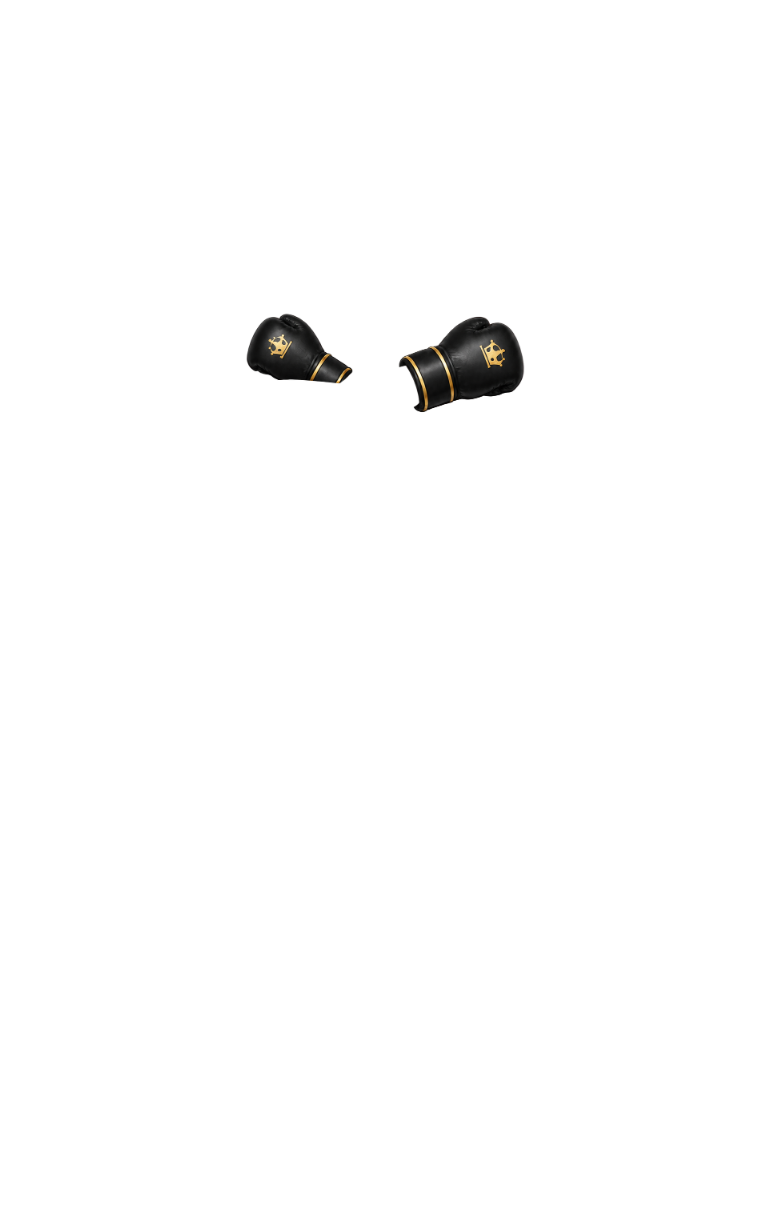
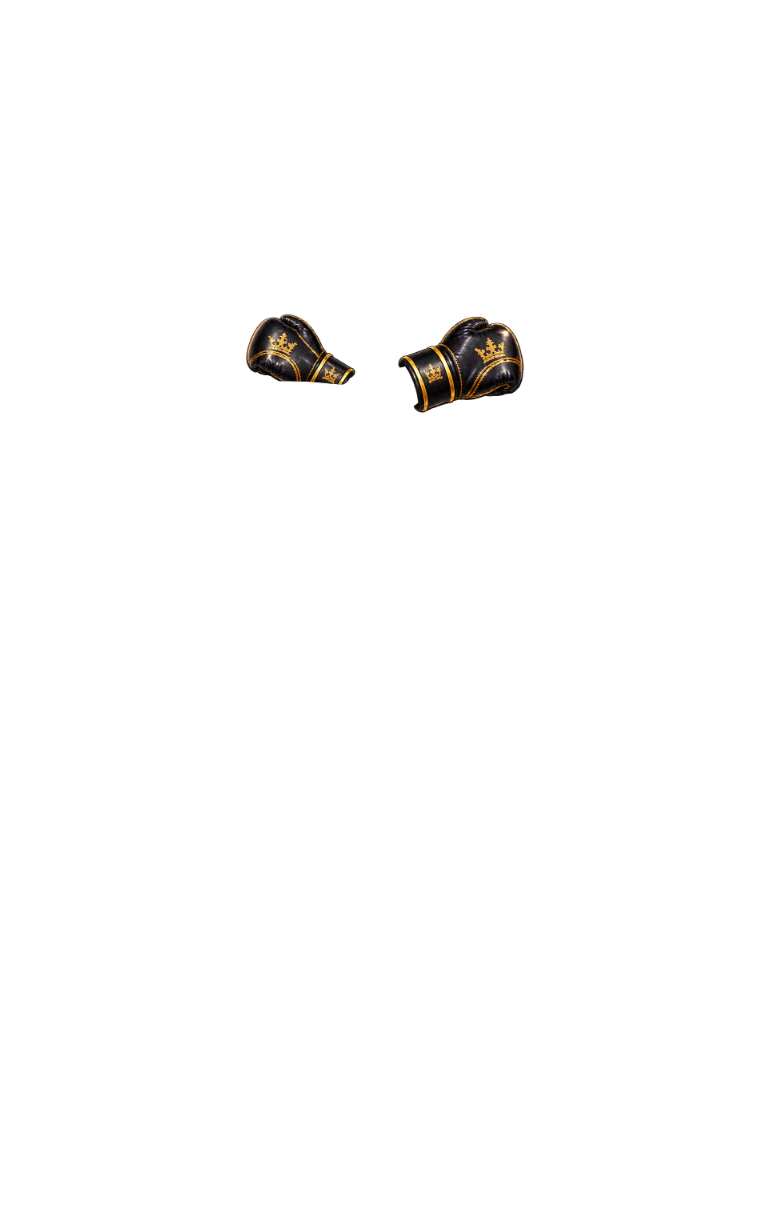
Prepare boxer release candidate with ornate glove restoration and complete first paint

Changed region(s): [[0.5312, 0.25, 0.6875, 0.3438], [0.3125, 0.25, 0.4688, 0.3125]]

diff --git a/takeover-mein-boxer-artpack.js b/takeover-mein-boxer-artpack.js
@@ -144,7 +144,9 @@ function build(manifest,draftPreview){
   const layers=choose(config,pose);
   if(!layers)return null;
   const html='<span class="mb-artpack" role="img" aria-label="'+(draftPreview?'Dein Boxer – nicht freigegebener Grafikentwurf':LABEL)+'" data-artpack-version="1"'+(draftPreview?' data-artpack-draft="modular-cool"':'')+' data-artpack-pose="'+pose+'">'+
-   layers.map(x=>'<img class="mb-artpack-img" data-art-slot="'+x.slot+'" src="'+x.src+'" alt="" draggable="false" decoding="async" loading="eager">').join('')+
+   // These URLs are already preloaded. Present their decoded layers together;
+   // async decoding can paint a bare body before hair/hands on the first frame.
+   layers.map(x=>'<img class="mb-artpack-img" data-art-slot="'+x.slot+'" src="'+x.src+'" alt="" draggable="false" decoding="sync" loading="eager">').join('')+
    '</span>';
   return html;
  }

diff --git a/docs/PR79_RELEASE_CANDIDATE.md b/docs/PR79_RELEASE_CANDIDATE.md
@@ -1,0 +1,71 @@
+# PR #79 — Final Polish / Release Candidate
+
+Stand: 31.10.2026. Basis: `68660d59611c8b29fc9a530eec5f86267fe476a2`; beim Start waren GitHub-Head und lokaler Branch identisch, keine fremden Zwischenänderungen. PR bleibt Draft. Kein Merge, Deployment, Force-Push oder Eingriff in produktive Daten.
+
+## Ausgeführte Änderungen
+
+1. Ausschließlich `hands-blackgold.png` und `hands-white.png` gezielt überarbeitet: glänzendes Leder, detaillierte Goldkronen auf Hand und Manschette sowie feinere Goldnähte nach dem zugänglichen früheren Handschuhdesign. Körper, Mantel, Tank und die acht Originalmasken bleiben unverändert. Keine neue Pose und kein Rendererumbau.
+2. Anatomische Registrierung beibehalten: gleicher proportionaler Faktor 0,4 und Versatz (173,117), unveränderte Körper-Handgelenkanker. Die hintere Handschuhunterkante bleibt für den vorderen Unterarm ausgespart. Quellenmaße, Quellenhashes und Dateiinventar aktualisiert.
+3. Bestehende Transaktionssuite um WebKit-Auswahl ergänzt und in beiden Browsern in der CI-Matrix verankert. Keine Shop-/Inventarlogik geändert.
+4. Nachgewiesenen Erstladefehler korrigiert: unabhängig asynchron dekodierte PNG-Ebenen konnten kurzfristig Haare/Handschuhe auslassen. Bereits vorgeladene Ebenen verwenden nun synchrones Decoding für die gemeinsame Darstellung. Neue Pixelregression vergleicht den ersten sichtbaren Bildsatz mit dem vollständig dekodierten Bildsatz in beiden Browsern.
+5. Neues Abnahmepaket mit echten Browserbildern, sechs Posen, vier repräsentativen Outfits, allen 32 Varianten als Übersicht, normalem SVG-Editor und Vorher-/Nachher-Vergleich erstellt und visuell gesichtet.
+
+![Handschuhstil vorher und RC](images/boxer-gloves-rc-before-after.png)
+
+## Referenzen und künstlerische Grenzen
+
+Die ursprüngliche Handschuhzeichnung ist in der Git-Historie und im früheren Vorher-/Nachher-Bogen zugänglich. Sie zeigt glänzendes schwarzes Leder, komplexere Kronen und zusätzliche Goldnähte. Ihre damalige falsche Platzierung wurde ausdrücklich **nicht** zurückübernommen. Die neue Materialwirkung nähert sich dieser Referenz an; eine pixelidentische Form- oder Designrekonstruktion wird nicht behauptet. Die erste weiße Farbvariante scheiterte an der unveränderten Konturprüfung und wurde verworfen. Die nachgebesserte Variante besteht dieselbe Prüfung ohne gelockerte Grenzwerte.
+
+Die separat dokumentierte 1536×1024-Gesamtvorlage fehlt weiterhin als Originaldatei. Die zugängliche Originalrekonstruktion trägt Bandagen; sie ist keine genaue Handschuhreferenz. Gesicht und Muskulatur des modularen Körpers weichen weiterhin von dieser Originalrekonstruktion ab. Ausrüstungskacheln bleiben SVG; fünf Posen und nicht unterstützte Cool-Konfigurationen bleiben vollständig SVG. Keine dieser Grenzen wurde als behoben oder persönlich freigegeben ausgegeben.
+
+Verwendet wurde der eingebaute Imagegen-Modus. Hauptprompt: „Restore original glossy black leather, fine ornate gold seam piping, detailed embroidered royal crowns on knuckles and cuffs. Keep exact glove placement, dimensions, orientations, silhouette and transparent boundary, including the occluded rear lower edge. Do not copy the incorrect inward placement. Change only material surface and gold detailing; no body, skin or background.“ Weiß: „Precise recolor only; black leather to ivory white, preserve gold embroidery, canvas coordinates, silhouettes, cuff openings and transparency.“ Rohdateien und vollständige Prompts liegen im lokalen Abnahmepaket; nur registrierte PNGs werden vom Editor verwendet.
+
+## Tests und Sichtprüfung
+
+- Chromium und WebKit: je **32/32 echte PNG-Outfits + 16 Handschuhansichten**. Handgelenke/Fingerabdeckung, freie Unterarme, Bildgrößen, Farbwechsel, atomare Darstellung, absichtlich fehlende Datei und fehlende Schreibaufrufe bestanden. Alpha-IoU **97,18 %**, unveränderte Mindestgrenze 96 %; Schwerpunkt-/Konturgrenzen bestanden.
+- Beide Engines: sechs Posen, unabhängige Profil-/Kartenpose, Save während weiterer Änderung, Verwerfen/Reset/Reload und verspätete Bildantwort bestanden. Andere Posen erhalten niemals Cool-PNGs.
+- Beide Engines: Einzel-/Bundlekauf, Doppelbestätigung, optionaler Leistungsfehler, fehlgeschlagene/leere/deaktivierte Inventarantwort und Speichern gekaufter Ausstattung bestanden. Ausschließlich isolierte lokale RPC-Mocks; keine echten Coins ausgegeben.
+- Beide Engines: Viewports **375×812, 390×844, 430×932, 768×1024, 1440×900**, Resize, Scroll und Tastatur; zusätzliche Studio-Breiten und Original-PNG-Ansichten bestanden. Vollständige Holo-Integration lokal Chromium bestanden.
+- Relevante Staging-Verträge, Grafikvalidatoren, Hashprüfungen, CSS-/JS-Prüfungen und isolierter Pages-Dateiumfang lokal bestanden. ZIP-Import benötigt das unter Windows fehlende `zip` und bleibt verbindlich im Linux-CI. Die CI des aktuellen Heads ist vor Abschluss maßgeblich; Links werden in der PR-Beschreibung und im ausgelieferten Bericht bestätigt.
[1 lines of base64/hex data omitted]
+- Visuell geprüft: Übersicht der 32 Outfits, vergrößerte Handschuhe mit/ohne Mantel/Tank, Mobil-/Desktopansichten, sechs Posen und normaler SVG-Editor. Keine neu sichtbaren offenen Handflächen, schwebenden Handschuhe, doppelten Arme oder abgeschnittenen Inhalte in diesen Ansichten. Kein persönliches künstlerisches Urteil vorweggenommen.
+
+Screenshots zeigen lokale Testkonten mit begrenztem Inventar. Interne Frisurnamen in einzelnen Testbildern stammen aus dem Mock-Katalog, nicht aus einer geänderten Produktionsbeschriftung. Die Galerie lädt ausschließlich beigefügte Dateien und funktioniert nach Entpacken offline.
+
+## Performance und gesamter Diff zu main
+
+Keine neue Runtime-Abhängigkeit oder zusätzliche Editor-Neurenderlogik; lediglich das Decoding der vorgeladenen Bildebenen wurde für die gemeinsame Darstellung angepasst. Maximal drei parallele Preloads, gemeinsame laufende Requests und URL-Statuscache bleiben unverändert. Async-Bildabschluss aktualisiert nur die Figur, nicht Fokus/Scrollposition der Ausrüstung. Vorhandene Performance-/Race-Tests bestehen; kein nachgewiesener Restfehler rechtfertigt einen Umbau. Dekodierte Browser-/GPU-Caches sind nicht direkt kontrolliert; keine physische Speicherprofilierung behauptet.
+
+Die zwölf PNGs umfassen jetzt **2.113.320 Bytes**. Leinwand bleibt 768×1216: reine RGBA-Abschätzung 3,56 MiB pro Bild bzw. 42,75 MiB für alle zwölf, ohne Browser-/GPU-Overhead. Normaler Editor: null Entwurfsbildrequests.
+
+Gesamter PR-Diff zu `main` geprüft: keine SQL-/Migrations-, RLS-, Benutzerrechte- oder Shopkatalogänderungen. Persistierte Ausstattungs-/Pose-Schlüssel bleiben erhalten. Bestehende RPC-IDs und Kaufwerte unverändert; bereits enthaltene Fehlerbehandlung im Editor bleibt bestehen. Keine zwischenzeitlichen main-Konflikte beim Ausgangsabgleich; vor späterem Merge erneut prüfen.
+
+Realer Pages-Dateizusammenbau isoliert ausgeführt: **66 Rootdateien, 14 Avatar-Dateien, 0 Premium-PNGs**. Tools, Tests, Docs, Quellreferenzen und die ausgeschlossenen Previewseiten werden nicht mitkopiert. Relevante relative Editorpfade werden durch die Browserprüfung des zusammengesetzten Builds aufgelöst. Die absichtlich fehlenden Draft-PNGs unter `?art=modular` ergeben eine vollständige SVG-Figur. Beide Manifeste bleiben `approved:false`, `enabled:false`. Kein Newsabruf, Pages-Upload oder Deployment als Teil dieses Auftrags.
+
+## Entscheidungsmatrix
+
+| | Release A: UI mit SVG | Release B: Premium-Art |
+| --- | --- | --- |
+| Technisch | Für manuelle Abnahme vorbereitet; aktuelle CI muss grün sein | Begrenzter Cool-Entwurf technisch geprüft; noch kein freigegebener Produktionspfad |
+| Design freigegeben | Persönliche UI-Abnahme offen | Persönliche Grafikabnahme ausdrücklich offen |
+| Produktiv freigegeben | Nein | Nein |
+| Vorteil | Vollständiger bestehender SVG-Ausstattungsumfang, keine Entwurfs-PNGs oder zusätzliche Texturlast | Hochwertigere gemalte Cool-Figur und 32 modular wechselbare Outfits |
+| Nachteil | Einfachere SVG-Optik gegenüber der Anime-Referenz | Begrenzte Varianten und sichtbarer Stilwechsel bei Fallback; weitere Art-Arbeit nötig |
+| Nächster Schritt | Physische Geräte-/Accessibility-Abnahme, ausdrückliche Merge-/Release-Freigabe | Handschuhstil/Gesicht/Anatomie abnehmen, dann separat Aktivierungs- und Auslieferungskonzept prüfen |
+
+**Empfehlung: Release A zuerst separat freigeben.** Beide Wege bleiben getrennt. Für B reicht es nicht, blind beide Draft-Flags einzuschalten: Der jetzige Publisher verwendet das freigegebene Standardmanifest; das modulare Manifest ist ein eigener Vorschaupfad. Ein späterer Premium-Meilenstein muss Standardauswahl, erlaubte Pose-/Outfitgrenzen, publizierte Dateien, Fallback und Rückschaltung zusammen testen. In diesem PR werden dafür keine Flags oder Daten geändert.
+
+## Noch NICHT durchgeführte manuelle Tests
+
+Auf einem explizit bereitgestellten Teststand des PR-Branches mit Testkonto durchführen, **nicht** durch einen eigenmächtigen Produktionsrelease ermöglichen. Käufe ausschließlich mit Testdaten/Mock-Backend.
+
+1. **iPhone/Safari, zusätzlich installierte Web-App falls genutzt:** Hoch-/Querformat wechseln; Browserleiste ein-/ausblenden; jede Ausrüstungskategorie bis unten scrollen. Figur und Save/Verwerfen müssen sichtbar bleiben; kein Scroll-Fangen, kein Überdecken durch Safe Area oder Tastatur. Unterbrechung/Hintergrundwechsel und Rückkehr prüfen.
+2. **Android/Chrome:** dieselben Schritte; schnelle zehnfache Outfit-/Posewechsel, langsame Verbindung und Offline/Online simulieren. Vollständige Figur oder vollständiger SVG-Fallback, keine halben Outfits; App reagiert weiter. Speicher-/Wärmeverhalten am realen Gerät beobachten.
+3. **Speichern/Reset:** beide Pose-Felder unterschiedlich wählen, andere Ausrüstung ändern, speichern und neu laden. Dann ungespeichert ändern/verwerfen. Bei verzögertem Speichern weiter ändern: neue Auswahl darf nicht verloren gehen. Profil-/Kartenpose müssen getrennt bleiben.
+4. **Testkäufe:** Einzelartikel/Bundle bestätigen, abbrechen, doppelt tippen; Fehlerantwort und Inventarnachladen prüfen. Nur eine Buchung, korrekter Bestand und Coins; gekaufter Artikel anschließend auswähl-/speicherbar.
+5. **VoiceOver oder NVDA:** nur per Tastatur bzw. Screenreader durch Kategorien, Optionen, Shopbestätigung und Save/Verwerfen navigieren. Beschriftungen, ausgewählte Zustände und Rückmeldung prüfen; Fokus darf nach Outfitwechsel nicht verschwinden oder gefangen bleiben. Bei 200 % Zoom wesentliche Aktionen erreichbar halten.
+6. **Persönliche Grafikabnahme:** Vorher-/Nachher-Board und reale Outfits mit beiden Farben, Mantel und Tank vergleichen. Krone, Goldnähte, Lederwirkung, Handgröße, hintere Verdeckung sowie Gesicht/Körper gesondert bestätigen oder konkret beanstanden.
+
+## Restprobleme und Abschlussgrenze
+
+Keine verbleibenden P0-/P1- oder nachgewiesenen relevanten P2-Fehler in den geprüften Abläufen. Offene Punkte sind persönliche Grafik-/UI-Abnahme, physische Geräte-/Assistenztests und spätere explizite Produktivfreigabe. Weitere technische Änderungen ohne neuen Befund werden beendet. Technisch bereit für manuelle Abnahme bedeutet weder Designfreigabe noch Produktivfreigabe.

diff --git a/docs/MEIN_BOXER_MODULAR_DRAFT.md b/docs/MEIN_BOXER_MODULAR_DRAFT.md
@@ -49,3 +49,9 @@ Körperbasis, Tanktop, Mantel und Originalmasken blieben unverändert. Die vorha
 - Lokale Negativkontrolle mit den beiden unveränderten alten PNGs aus `a318638`: Beide scheitern an den neuen Prüfungen für freie Unterarme und abgedeckte nackte Hände. Damit ist belegt, dass die Regression den ursprünglichen Fehler erkennt.
 
 **Ergebnis:** technisch korrekt registriert und nach der durchgeführten Sichtprüfung für diese Cool-Kombinationen ausreichend korrigiert. Keine schwebenden Fäuste, freiliegenden zusätzlichen Finger oder auf den Bauch verschobenen Manschetten mehr in den geprüften Ansichten. Geringe zeichnerische Konturunterschiede zwischen den Farben bleiben; die persönliche künstlerische Freigabe des Auftraggebers und alle Aktivierungsflags bleiben offen beziehungsweise ausgeschaltet.
+
+## Release-Candidate-Politur — 31. Oktober 2026
+
+Der Handschuhstil wurde nach der zugänglichen früheren Zeichnung gezielt angenähert: glänzendes Leder, aufwendigere Kronen und zusätzliche Goldnähte. Anatomische Anker und gemeinsamer Transform bleiben unverändert. Neue Alpha-IoU 97,18 % bei unveränderten Grenzwerten; beide Browser bestehen weiterhin 32 Outfits und 16 Handschuhansichten. Zwölf PNGs nun insgesamt 2.113.320 Bytes. Persönliche Designfreigabe bleibt offen. Die historischen Werte und der vorherige Vergleich oben dokumentieren den damaligen Stand.
+
+Aktueller Vergleich, Tests, manuelle Prüfanleitung und getrennte Release-Wege: [PR79_RELEASE_CANDIDATE.md](PR79_RELEASE_CANDIDATE.md).
